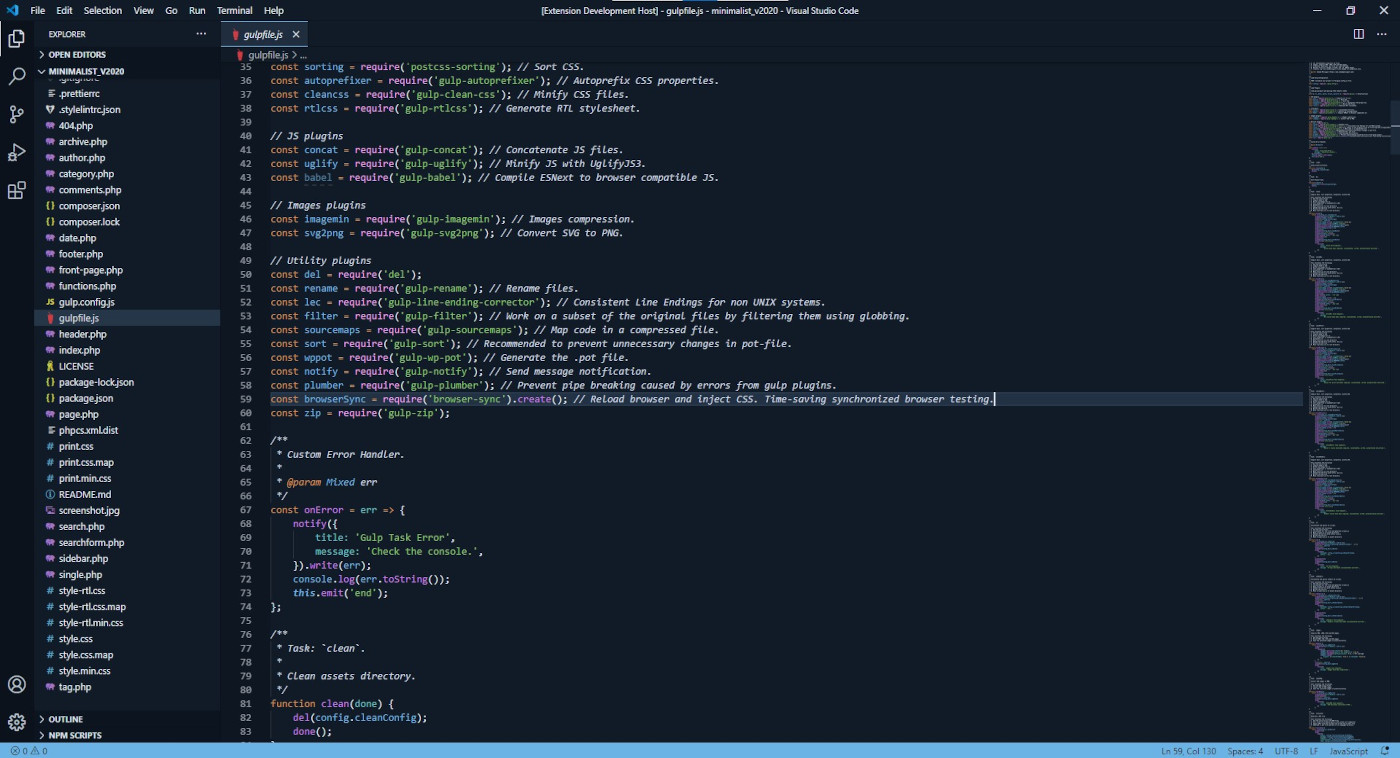
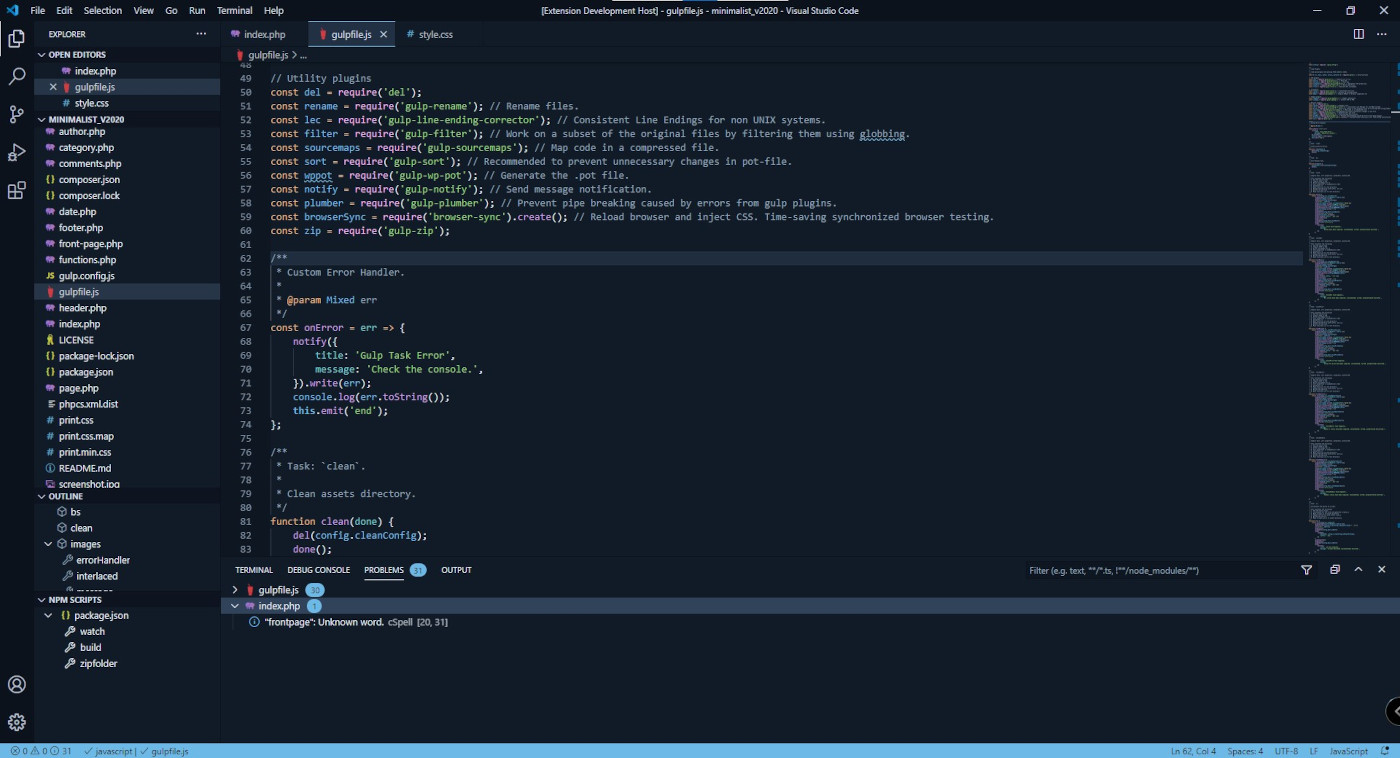
Update screenshots & add 2 new screenshots (Linux - no folder open)

diff --git a/packages/coldark-vscode/README.md b/packages/coldark-vscode/README.md
@@ -64,15 +64,21 @@ I tried to keep the same descriptions for both versions. However, for complex th
 
 ## Screenshots
 
-These screenshots were taken on Windows. On Linux, the title bar and the menu are not customizable.
-
 ### Cold
+
+[![Coldark Cold](./assets/coldark-cold.jpg)](./assets/coldark-cold.jpg)
+
+As you can see above, on Linux, the title bar and the menu are not customizable. The following screenshots were taken on Windows.
 
 | PHP | CSS | JS |
 | --- | --- | --- |
 | [![Coldark Cold PHP](./assets/coldark-cold-php.jpg)](./assets/coldark-cold-php.jpg) | [![Coldark Cold CSS](./assets/coldark-cold-css.jpg)](./assets/coldark-cold-css.jpg) | [![Coldark Cold JS](./assets/coldark-cold-js.jpg)](./assets/coldark-cold-js.jpg) |
 
 ### Dark
+
+[![Coldark Dark](./assets/coldark-dark.jpg)](./assets/coldark-dark.jpg)
+
+As you can see above, on Linux, the title bar and the menu are not customizable. The following screenshots were taken on Windows.
 
 | PHP | CSS | JS |
 | --- | --- | --- |
